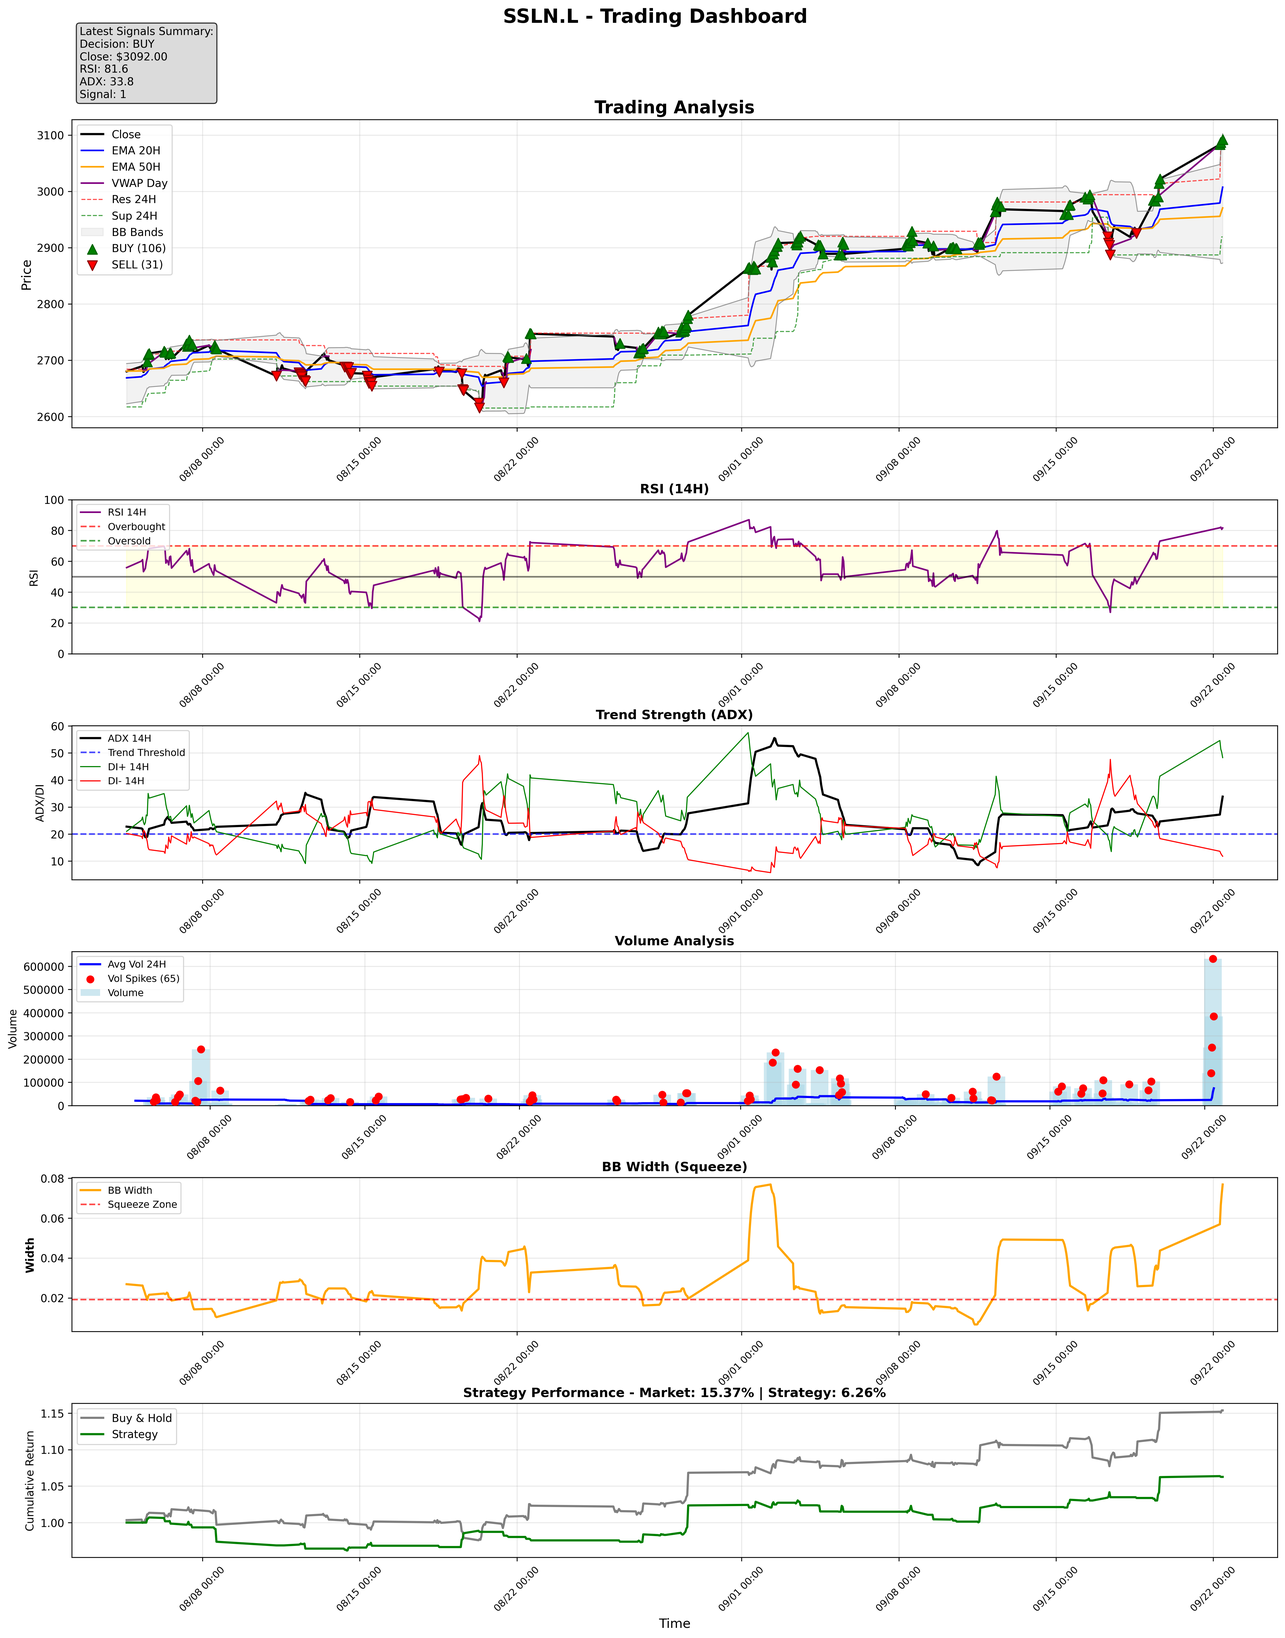
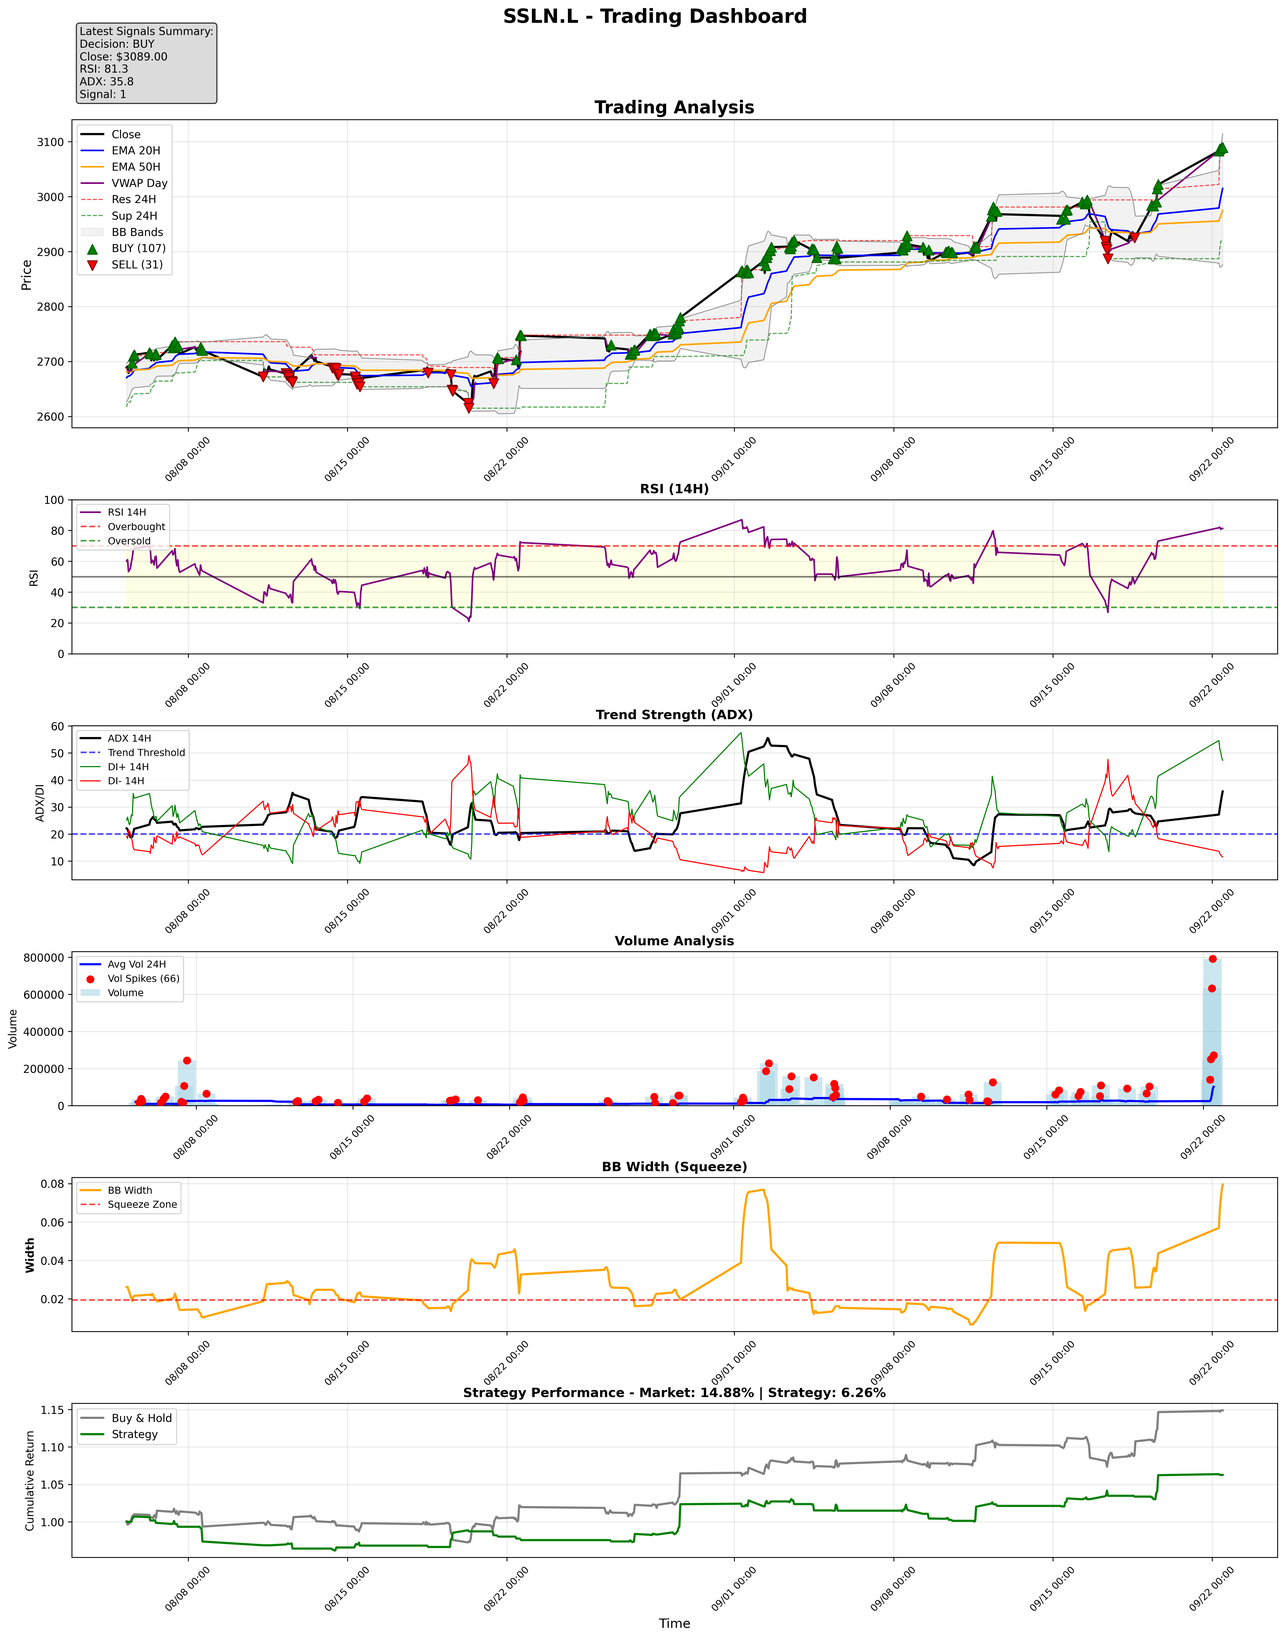
update websites

diff --git a/pricing-reports/SSLN.L_trading.html b/pricing-reports/SSLN.L_trading.html
@@ -7,33 +7,35 @@ layout: layout.html
 <article class="market-analysis-report">
 
     <p class="report-intro">
-        Pricing Report - Hourly financial data for the instrument. Latest snapshot (<span class="data-point">2025-09-22 10:00:00+00:00</span>):
+        Pricing Report - Hourly financial data. Latest snapshot (<span class="data-point">2025-09-22 11:00:00+00:00</span>):
     </p>
 
     <section id="summary">
         <h2>Summary</h2>
         <p>
-            The instrument is exhibiting a <strong>strong bullish trend</strong> across all timeframes, supported by robust momentum and directional strength. A confirmed upward breakout, backed by significant volume, has occurred in the latest hour. However, the price is heavily overbought and nearing the upper Bollinger Band, suggesting potential for short-term consolidation before further upside.
+            The instrument is exhibiting an <strong>exceptionally strong bullish trend</strong>, confirmed by robust momentum and directional indicators. Price has successfully broken above a key 24-hour resistance level on significant volume. However, the asset is deeply overbought, suggesting caution for aggressive new entries and potential for a short-term consolidation before further advance.
         </p>
     </section>
 
     <section id="observations">
         <h2>Observations</h2>
         <ul>
-            <li><strong>Strong Bullish Trend:</strong> The Close (<span class="data-point">3092.0</span>) is significantly above all moving averages (SMA_20H: <span class="data-point">2987.56</span>, SMA_50H: <span class="data-point">2966.10</span>, EMA_20H: <span class="data-point">3007.36</span>, EMA_50H: <span class="data-point">2970.51</span>, EMA_200H: <span class="data-point">2877.09</span>), confirming a robust uptrend across all timeframes.</li>
-            <li><strong>Robust Momentum:</strong> MACD (<span class="data-point">36.54</span>) is well above its signal line (<span class="data-point">22.70</span>) with a strong positive MACD_Hist (<span class="data-point">13.84</span>), indicating strong and sustained bullish momentum.</li>
-            <li><strong>Dominant Uptrend Strength:</strong> The ADX_14H at <span class="data-point">33.85</span> signals a very strong trending market, with DI+_14H (<span class="data-point">48.26</span>) considerably higher than DI-_14H (<span class="data-point">11.77</span>), confirming bullish directional strength.</li>
-            <li><strong>Confirmed Upward Breakout:</strong> `Break_Up_24H` is `True`, with the Close (<span class="data-point">3092.0</span>) breaking decisively above the 24H Resistance (<span class="data-point">3087.0</span>). This breakout is further validated by `Vol_Breakout_Up` being `True` and a `Vol_Spike` (`384788` vs Avg_Vol_24H: <span class="data-point">74312.08</span>), indicating strong buying conviction.</li>
-            <li><strong>Overbought Conditions:</strong> The RSI_14H at <span class="data-point">81.64</span> is deep within the overbought region (>70), suggesting an extended move that might precede a short-term pullback or consolidation. The price is also nearing the upper Bollinger Band (BB_Up_20H: <span class="data-point">3102.39</span>).</li>
+            <li><strong>Overwhelming Bullish Trend:</strong> The Close price (<span class="data-point">3092.0</span>) is significantly above all short-term (SMA_20H: <span class="data-point">2995.56</span>, EMA_20H: <span class="data-point">3015.16</span>), medium-term (SMA_50H: <span class="data-point">2968.42</span>, EMA_50H: <span class="data-point">2975.16</span>), and long-term (EMA_200H: <span class="data-point">2879.20</span>) moving averages, confirming a powerful uptrend.</li>
+            <li><strong>Robust Momentum:</strong> MACD (<span class="data-point">38.41</span>) is well above its signal line (<span class="data-point">25.80</span>) with a strong positive MACD_Hist (<span class="data-point">12.60</span>), indicating sustained buying pressure.</li>
+            <li><strong>Strong Trending Market:</strong> ADX_14H at <span class="data-point">35.77</span> indicates a very strong trend, with DI+_14H (<span class="data-point">47.08</span>) significantly dominant over DI-_14H (<span class="data-point">11.48</span>), signaling robust directional strength upwards.</li>
+            <li><strong>Resistance Breakout with Volume:</strong> The instrument has triggered a 24H Breakout Up (True) by closing above the 24H Resistance (<span class="data-point">3089.0</span>). This move is supported by a Vol_Spike (True) and Vol_Breakout_Up (True), confirming strong conviction.</li>
+            <li><strong>Deeply Overbought Conditions:</strong> The RSI_14H is at <span class="data-point">81.66</span>, indicating the instrument is deeply in overbought territory, suggesting increased risk of a pullback or consolidation.</li>
+            <li><strong>Intraday Strength:</strong> The current Close (<span class="data-point">3092.0</span>) remains above the VWAP_Day (<span class="data-point">3086.94</span>), demonstrating persistent intraday buying.</li>
         </ul>
     </section>
 
     <section id="insights">
         <h2>Actionable Insights</h2>
         <ul>
-            <li><strong>For Long Positions:</strong> While the instrument is in a powerful uptrend with confirmed breakouts, new aggressive entries at current overbought levels carry increased risk. Consider awaiting a shallow pullback towards the newly established support at the former 24H Resistance (around <span class="data-point">3087.0</span>) or the EMA_20H (around <span class="data-point">3007.36</span>) for better risk-reward entry points.</li>
-            <li><strong>Support Monitoring:</strong> The broken 24H Resistance (<span class="data-point">3087.0</span>) is now immediate support. A successful hold above this level reinforces the bullish outlook.</li>
-            <li><strong>Risk Management:</strong> Despite the strong trend, the extreme overbought RSI warrants careful monitoring for signs of exhaustion. Implement appropriate stop-losses to protect against unexpected pullbacks.</li>
+            <li><strong>For Long Positions:</strong> While the trend is exceptionally strong, the deeply overbought RSI (<span class="data-point">81.66</span>) advises caution. Consider waiting for a healthy pullback towards the EMA_20H (approx. <span class="data-point">3015.16</span>) or the newly established support at <span class="data-point">3089.0</span> for more favorable entry points.</li>
+            <li><strong>Monitor New Support:</strong> The previous 24H Resistance at <span class="data-point">3089.0</span> should now be watched as a potential strong support level. A retest and hold of this level would confirm its validity.</li>
+            <li><strong>Risk Management:</strong> Given the overextended RSI, implement strict risk management, including stop-loss orders, to protect against potential profit-taking or sudden reversals.</li>
+            <li><strong>Volatility:</strong> The BB_Width (<span class="data-point">0.079844</span>) indicates expanding volatility, which can accompany strong moves but also increased price swings.</li>
         </ul>
     </section>
 
@@ -42,21 +44,19 @@ layout: layout.html
         <div class="signal-box">
             <p><strong>Signal: 1 (Buy)</strong></p>
             <p>
-                This summary signal indicates a strong bullish bias for the instrument. It unequivocally suggests that the aggregated technical indicators are predominantly aligned to favor a long position.
+                This summary signal confirms a strong bullish conviction for the instrument. The overwhelming alignment of trend, momentum, and volume indicators points towards continued upside potential.
             </p>
         </div>
 
         <h3>Signal Analysis</h3>
         <p>
-            For the latest hourly snapshot, the following boolean flags are marked as `True`:
-        </p>
-        <ul>
-            <li><code>Vol_Spike</code> (`True`): The current hourly volume (<span class="data-point">384788</span>) is exceptionally high compared to the average 24-hour volume (<span class="data-point">74312.08</span>), signifying strong conviction behind the price movement.</li>
-            <li><code>Break_Up_24H</code> (`True`): The instrument has decisively broken above its 24-hour resistance level (<span class="data-point">3087.0</span>), signaling a continuation of the upward trend.</li>
-            <li><code>Vol_Breakout_Up</code> (`True`): This confirms that the upward price breakout was supported by strong volume, adding reliability to the breakout signal.</li>
-        </ul>
-        <p>
-            All other boolean flags, such as candlestick patterns (`Bull_Engulfing_H`, `Hammer_H`, etc.) or `Break_Down_24H`, are `False` in this specific hour.
+            For the latest hourly snapshot, the following boolean flags are active:
+            <ul>
+                <li><code>Vol_Spike</code> is <strong>True</strong>: The latest hourly candle saw significantly higher volume (<span class="data-point">270918</span>) than average (<span class="data-point">101524.96</span>), indicating strong participation.</li>
+                <li><code>Break_Up_24H</code> is <strong>True</strong>: The price has broken above the previous 24-hour resistance level of <span class="data-point">3089.0</span>.</li>
+                <li><code>Vol_Breakout_Up</code> is <strong>True</strong>: This upward breakout is validated by a surge in trading volume.</li>
+            </ul>
+            All other candlestick patterns (<code>Bull_Engulfing_H</code>, <code>Hammer_H</code>, <code>Gap_Up_H</code>, <code>Gap_Down_H</code>) are <strong>False</strong>, meaning no specific hourly reversal or continuation patterns were formed in this precise candle. <code>Break_Down_24H</code> and <code>Vol_Breakout_Down</code> are also <strong>False</strong>, underscoring the dominant bullish action.
         </p>
     </section>
 

diff --git a/_site/pricing-reports/SSLN.L_trading/index.html b/_site/pricing-reports/SSLN.L_trading/index.html
@@ -49,33 +49,35 @@
         <article class="market-analysis-report">
 
     <p class="report-intro">
-        Pricing Report - Hourly financial data for the instrument. Latest snapshot (<span class="data-point">2025-09-22 10:00:00+00:00</span>):
+        Pricing Report - Hourly financial data. Latest snapshot (<span class="data-point">2025-09-22 11:00:00+00:00</span>):
     </p>
 
     <section id="summary">
         <h2>Summary</h2>
         <p>
-            The instrument is exhibiting a <strong>strong bullish trend</strong> across all timeframes, supported by robust momentum and directional strength. A confirmed upward breakout, backed by significant volume, has occurred in the latest hour. However, the price is heavily overbought and nearing the upper Bollinger Band, suggesting potential for short-term consolidation before further upside.
+            The instrument is exhibiting an <strong>exceptionally strong bullish trend</strong>, confirmed by robust momentum and directional indicators. Price has successfully broken above a key 24-hour resistance level on significant volume. However, the asset is deeply overbought, suggesting caution for aggressive new entries and potential for a short-term consolidation before further advance.
         </p>
     </section>
 
     <section id="observations">
         <h2>Observations</h2>
         <ul>
-            <li><strong>Strong Bullish Trend:</strong> The Close (<span class="data-point">3092.0</span>) is significantly above all moving averages (SMA_20H: <span class="data-point">2987.56</span>, SMA_50H: <span class="data-point">2966.10</span>, EMA_20H: <span class="data-point">3007.36</span>, EMA_50H: <span class="data-point">2970.51</span>, EMA_200H: <span class="data-point">2877.09</span>), confirming a robust uptrend across all timeframes.</li>
-            <li><strong>Robust Momentum:</strong> MACD (<span class="data-point">36.54</span>) is well above its signal line (<span class="data-point">22.70</span>) with a strong positive MACD_Hist (<span class="data-point">13.84</span>), indicating strong and sustained bullish momentum.</li>
-            <li><strong>Dominant Uptrend Strength:</strong> The ADX_14H at <span class="data-point">33.85</span> signals a very strong trending market, with DI+_14H (<span class="data-point">48.26</span>) considerably higher than DI-_14H (<span class="data-point">11.77</span>), confirming bullish directional strength.</li>
-            <li><strong>Confirmed Upward Breakout:</strong> `Break_Up_24H` is `True`, with the Close (<span class="data-point">3092.0</span>) breaking decisively above the 24H Resistance (<span class="data-point">3087.0</span>). This breakout is further validated by `Vol_Breakout_Up` being `True` and a `Vol_Spike` (`384788` vs Avg_Vol_24H: <span class="data-point">74312.08</span>), indicating strong buying conviction.</li>
-            <li><strong>Overbought Conditions:</strong> The RSI_14H at <span class="data-point">81.64</span> is deep within the overbought region (>70), suggesting an extended move that might precede a short-term pullback or consolidation. The price is also nearing the upper Bollinger Band (BB_Up_20H: <span class="data-point">3102.39</span>).</li>
+            <li><strong>Overwhelming Bullish Trend:</strong> The Close price (<span class="data-point">3092.0</span>) is significantly above all short-term (SMA_20H: <span class="data-point">2995.56</span>, EMA_20H: <span class="data-point">3015.16</span>), medium-term (SMA_50H: <span class="data-point">2968.42</span>, EMA_50H: <span class="data-point">2975.16</span>), and long-term (EMA_200H: <span class="data-point">2879.20</span>) moving averages, confirming a powerful uptrend.</li>
+            <li><strong>Robust Momentum:</strong> MACD (<span class="data-point">38.41</span>) is well above its signal line (<span class="data-point">25.80</span>) with a strong positive MACD_Hist (<span class="data-point">12.60</span>), indicating sustained buying pressure.</li>
+            <li><strong>Strong Trending Market:</strong> ADX_14H at <span class="data-point">35.77</span> indicates a very strong trend, with DI+_14H (<span class="data-point">47.08</span>) significantly dominant over DI-_14H (<span class="data-point">11.48</span>), signaling robust directional strength upwards.</li>
+            <li><strong>Resistance Breakout with Volume:</strong> The instrument has triggered a 24H Breakout Up (True) by closing above the 24H Resistance (<span class="data-point">3089.0</span>). This move is supported by a Vol_Spike (True) and Vol_Breakout_Up (True), confirming strong conviction.</li>
+            <li><strong>Deeply Overbought Conditions:</strong> The RSI_14H is at <span class="data-point">81.66</span>, indicating the instrument is deeply in overbought territory, suggesting increased risk of a pullback or consolidation.</li>
+            <li><strong>Intraday Strength:</strong> The current Close (<span class="data-point">3092.0</span>) remains above the VWAP_Day (<span class="data-point">3086.94</span>), demonstrating persistent intraday buying.</li>
         </ul>
     </section>
 
     <section id="insights">
         <h2>Actionable Insights</h2>
         <ul>
-            <li><strong>For Long Positions:</strong> While the instrument is in a powerful uptrend with confirmed breakouts, new aggressive entries at current overbought levels carry increased risk. Consider awaiting a shallow pullback towards the newly established support at the former 24H Resistance (around <span class="data-point">3087.0</span>) or the EMA_20H (around <span class="data-point">3007.36</span>) for better risk-reward entry points.</li>
-            <li><strong>Support Monitoring:</strong> The broken 24H Resistance (<span class="data-point">3087.0</span>) is now immediate support. A successful hold above this level reinforces the bullish outlook.</li>
-            <li><strong>Risk Management:</strong> Despite the strong trend, the extreme overbought RSI warrants careful monitoring for signs of exhaustion. Implement appropriate stop-losses to protect against unexpected pullbacks.</li>
+            <li><strong>For Long Positions:</strong> While the trend is exceptionally strong, the deeply overbought RSI (<span class="data-point">81.66</span>) advises caution. Consider waiting for a healthy pullback towards the EMA_20H (approx. <span class="data-point">3015.16</span>) or the newly established support at <span class="data-point">3089.0</span> for more favorable entry points.</li>
+            <li><strong>Monitor New Support:</strong> The previous 24H Resistance at <span class="data-point">3089.0</span> should now be watched as a potential strong support level. A retest and hold of this level would confirm its validity.</li>
+            <li><strong>Risk Management:</strong> Given the overextended RSI, implement strict risk management, including stop-loss orders, to protect against potential profit-taking or sudden reversals.</li>
+            <li><strong>Volatility:</strong> The BB_Width (<span class="data-point">0.079844</span>) indicates expanding volatility, which can accompany strong moves but also increased price swings.</li>
         </ul>
     </section>
 
@@ -84,21 +86,19 @@
         <div class="signal-box">
             <p><strong>Signal: 1 (Buy)</strong></p>
             <p>
-                This summary signal indicates a strong bullish bias for the instrument. It unequivocally suggests that the aggregated technical indicators are predominantly aligned to favor a long position.
+                This summary signal confirms a strong bullish conviction for the instrument. The overwhelming alignment of trend, momentum, and volume indicators points towards continued upside potential.
             </p>
         </div>
 
         <h3>Signal Analysis</h3>
         <p>
-            For the latest hourly snapshot, the following boolean flags are marked as `True`:
-        </p>
-        <ul>
-            <li><code>Vol_Spike</code> (`True`): The current hourly volume (<span class="data-point">384788</span>) is exceptionally high compared to the average 24-hour volume (<span class="data-point">74312.08</span>), signifying strong conviction behind the price movement.</li>
-            <li><code>Break_Up_24H</code> (`True`): The instrument has decisively broken above its 24-hour resistance level (<span class="data-point">3087.0</span>), signaling a continuation of the upward trend.</li>
-            <li><code>Vol_Breakout_Up</code> (`True`): This confirms that the upward price breakout was supported by strong volume, adding reliability to the breakout signal.</li>
-        </ul>
-        <p>
-            All other boolean flags, such as candlestick patterns (`Bull_Engulfing_H`, `Hammer_H`, etc.) or `Break_Down_24H`, are `False` in this specific hour.
+            For the latest hourly snapshot, the following boolean flags are active:
+            <ul>
+                <li><code>Vol_Spike</code> is <strong>True</strong>: The latest hourly candle saw significantly higher volume (<span class="data-point">270918</span>) than average (<span class="data-point">101524.96</span>), indicating strong participation.</li>
+                <li><code>Break_Up_24H</code> is <strong>True</strong>: The price has broken above the previous 24-hour resistance level of <span class="data-point">3089.0</span>.</li>
+                <li><code>Vol_Breakout_Up</code> is <strong>True</strong>: This upward breakout is validated by a surge in trading volume.</li>
+            </ul>
+            All other candlestick patterns (<code>Bull_Engulfing_H</code>, <code>Hammer_H</code>, <code>Gap_Up_H</code>, <code>Gap_Down_H</code>) are <strong>False</strong>, meaning no specific hourly reversal or continuation patterns were formed in this precise candle. <code>Break_Down_24H</code> and <code>Vol_Breakout_Down</code> are also <strong>False</strong>, underscoring the dominant bullish action.
         </p>
     </section>
 

diff --git a/_site/pricing.html b/_site/pricing.html
@@ -60,10 +60,18 @@
 <li>Feature D</li>
 </ul>
 <h2>Trading Analysis Reports</h2>
-<ul>
-<li><a href="/pricing-reports/slv_trading/">SLV Trading Analysis</a></li>
-</ul>
-
+<details class="report-accordion">
+  <summary>
+    <span>Silver</span>
+  </summary>
+  <div class="report-content">
+    <ul>
+      <li><a href="/pricing-reports/slv_trading/">SLV Trading Analysis</a></li>
+      <li><a href="/pricing-reports/SLVR_trading/">SLVR Trading Analysis</a></li>
+      <li><a href="/pricing-reports/SSLN.L_trading/">SSLN.L Trading Analysis</a></li>
+    </ul>
+  </div>
+</details>
     </main>
 
 </body>

diff --git a/pricing.md b/pricing.md
@@ -18,4 +18,15 @@ This is where you can add details about your pricing tiers, features, and subscr
 - Feature D
 
 ## Trading Analysis Reports
-- [SLV Trading Analysis](/pricing-reports/slv_trading/)
+<details class="report-accordion">
+  <summary>
+    <span>Silver</span>
+  </summary>
+  <div class="report-content">
+    <ul>
+      <li><a href="/pricing-reports/slv_trading/">SLV Trading Analysis</a></li>
+      <li><a href="/pricing-reports/SLVR_trading/">SLVR Trading Analysis</a></li>
+      <li><a href="/pricing-reports/SSLN.L_trading/">SSLN.L Trading Analysis</a></li>
+    </ul>
+  </div>
+</details>
